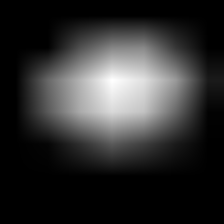
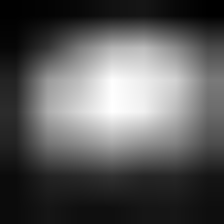
Readme completed

diff --git a/AOPC_MoRF.py b/AOPC_MoRF.py
@@ -118,7 +118,8 @@ for name_id in range(len(imgs_names)):
 
     if verbose:
         print(f'total sum {total_sum_blocks}')
-        print(f'breaking value {breaking_pct_value}')
+        if pct >= 0:
+            print(f'breaking value {breaking_pct_value}')
     
     AOPC = []
     for i in range(len(blocks_dict.items())):

diff --git a/README.md b/README.md
@@ -23,6 +23,12 @@ where $M$ is the pixel deletion procedure (MoRF or LeRF), $L$ is the number of p
 ```
 denotes the mean over all images in the dataset.
 
+
+---
+
+### More information about the algorithm behavior
+The algorithm starts with an image on which the AOPC (yes, there is an AOPC value for each image, and it is then averaged across all the images in the dataset) needs to be computed. This image is classified, and an explanation for this classification is generated using an explainability model. From this explanation, a grid is created (according to the dimensions requested by the user), and each grid block is assigned an importance value. The more important the pixels within the block are for the classification, the more important the block itself will be. This is done based on the values of the explanation. An illustrative example is provided in the images below.
+
 <div style="text-align:center;">
 <table>
   <tr>
@@ -32,16 +38,17 @@ denotes the mean over all images in the dataset.
     </td>
     <td>
       <img src="other/readme_imgs/img_cam_0.png">
-      <p align="center">Image after 10 perturbation step</p>
+      <p align="center">Explaination of the original image.</p>
     </td>
     <td>
       <img src="other/readme_imgs/grid.png">
-      <p align="center">Image after 30 perturbation step</p>
+      <p align="center">Example of how the grid is created. <br>The heatmap represent the importance. </p>
     </td>
   </tr>
 </table>
 </div>
 
+Starting from this point, the various blocks are perturbed in descending order of importance, and the formula mentioned above is calculated. Perturbation can be done in various ways (such as zeroing out pixels, adding noise, using random values, etc.). In this case, we have chosen to use the mean. Specifically, for each block that needs to be perturbed, the average value is calculated, and this value is assigned to every pixel within the block. An illustrative example of how the perturbetion work over different iteration is provided in the images below.
 
 <div style="text-align:center;">
 <table>
@@ -61,6 +68,9 @@ denotes the mean over all images in the dataset.
   </tr>
 </table>
 </div>
+
+### How to analyze the results
+As mentioned earlier, the faster the classification output decreases, the better the explainability method will be. In the two following graphs, in the first case, we can observe a very high AOPC value, indicating a favorable evaluation for the explanation method. In the right image, we can see a lower AOPC value, indicating poorer performance.
 
 <img src="other/readme_imgs/aopc_plot_example.png">
 
@@ -90,14 +100,30 @@ For simplicity this file has no argument to pass by command line. You have only 
 In the code we use a `Resnet50` model and `GradCam` as explaination method. <br>
 Obviously you have to use this file only if you don't have already the explainations. If you know how to produce them by yourself you don't need this file (consider it just an utils file).
 
-TODO NOMI FILE per regex
-
 ### `report_analysis.py`
 Also this file has no argument to pass by command line. You only have to change the filename of the results `.pkl` file directly in the script. <br>
 Also this file is an utils file, you can use this as a baseline to obtain more analysis on the computed results. As it is the file produce in output the mean AOPC across all the images in the dataset and plot the chart of the AOPC curve for each image. It saves each plot in the `AOPC_plots` :open_file_folder: directory.
 
 ### Example of Usage 
-TODO
+1. The first thing you have to do is to prepare the images dataset. For example put the images in a folder like the one already present and called `imgs` :open_file_folder:.
+2. Rename all the images in a correct pattern, for example if you want to use the already present **regex** you have to rename the images as: `img_{X}.png` where `X` is a number. I suggest you to start from `0` and increase iteratively by `1` each (like the 3 example images already present).
+3. Next, you have to generate the explanation using the method you want to test. In the `generate_cams.py` file there is an example of how to do it with different methods taken from [this](https://github.com/jacobgil/pytorch-grad-cam) library. TO run it:
+```
+python3 generate_cams.py
+```
+4. As for the images, you have to rename the cams in a correct way and put in a folder like the one already present and called `cams` :open_file_folder:. For example you can rename the cams as: `img_cam_{X}.png` where `X` is a number.
+5. Now you have everythings to compute the AOPC across your datasets of images. To do this you can run the algorithm:
+```bash
+python3 AOPC_MoRF.py imgs/ cams/ -block_size 8 -block_row 28 --file_name results.pkl -v True
+```
+6. The results will be saved in a file called `results.pkl`
+7. You can analyze the result using the script `results_analysis.py`:
+```
+python3 results_analysis.py
+```
+which will plot some chart like the one in the `AOPC_plots` folder :open_file_folder: and will give in output the mean AOPC across all the images.
+
+Now you are ready to start!
 
 ## Requiriments Installation
 Before running the project, prepare the system as follows:
